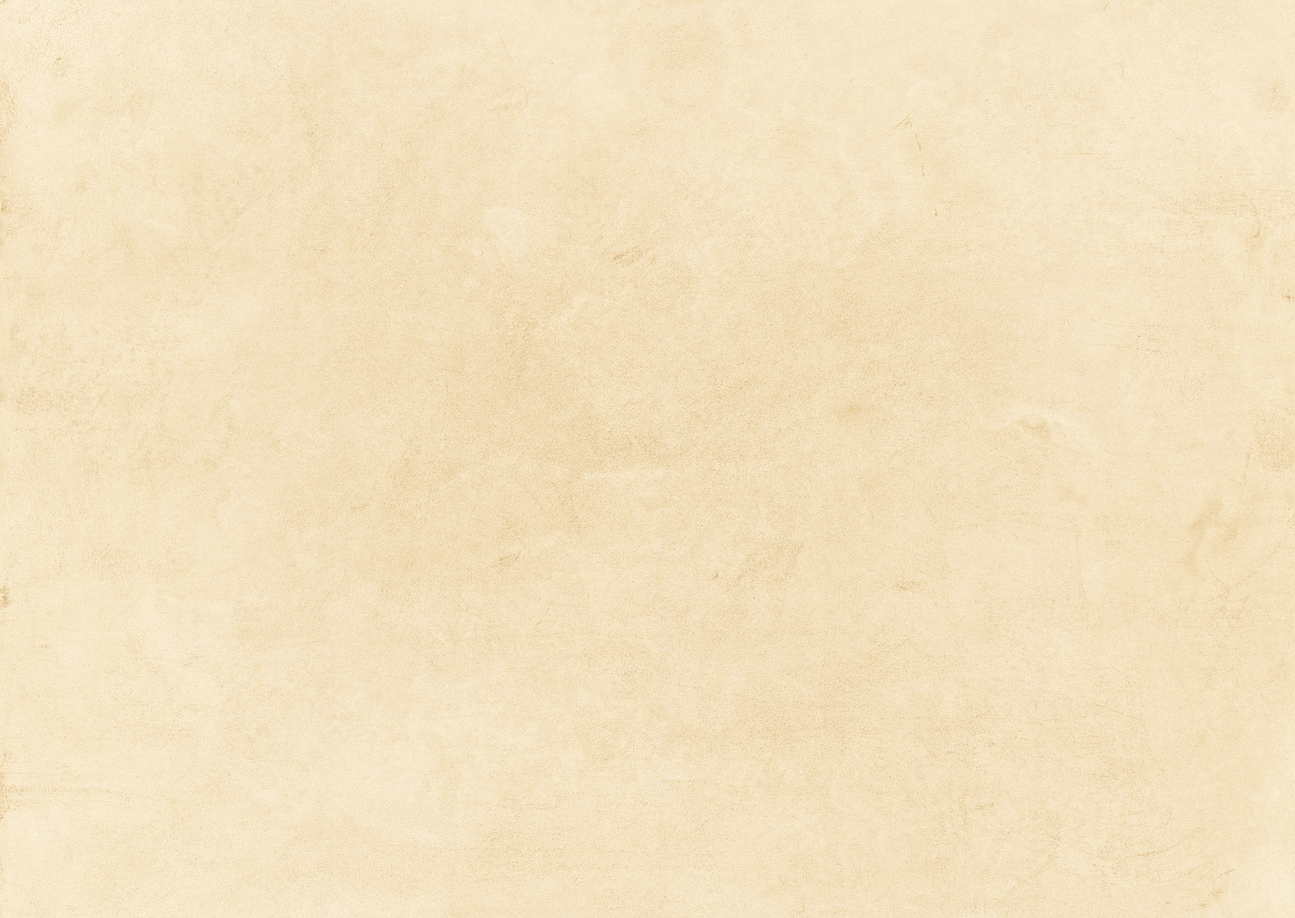
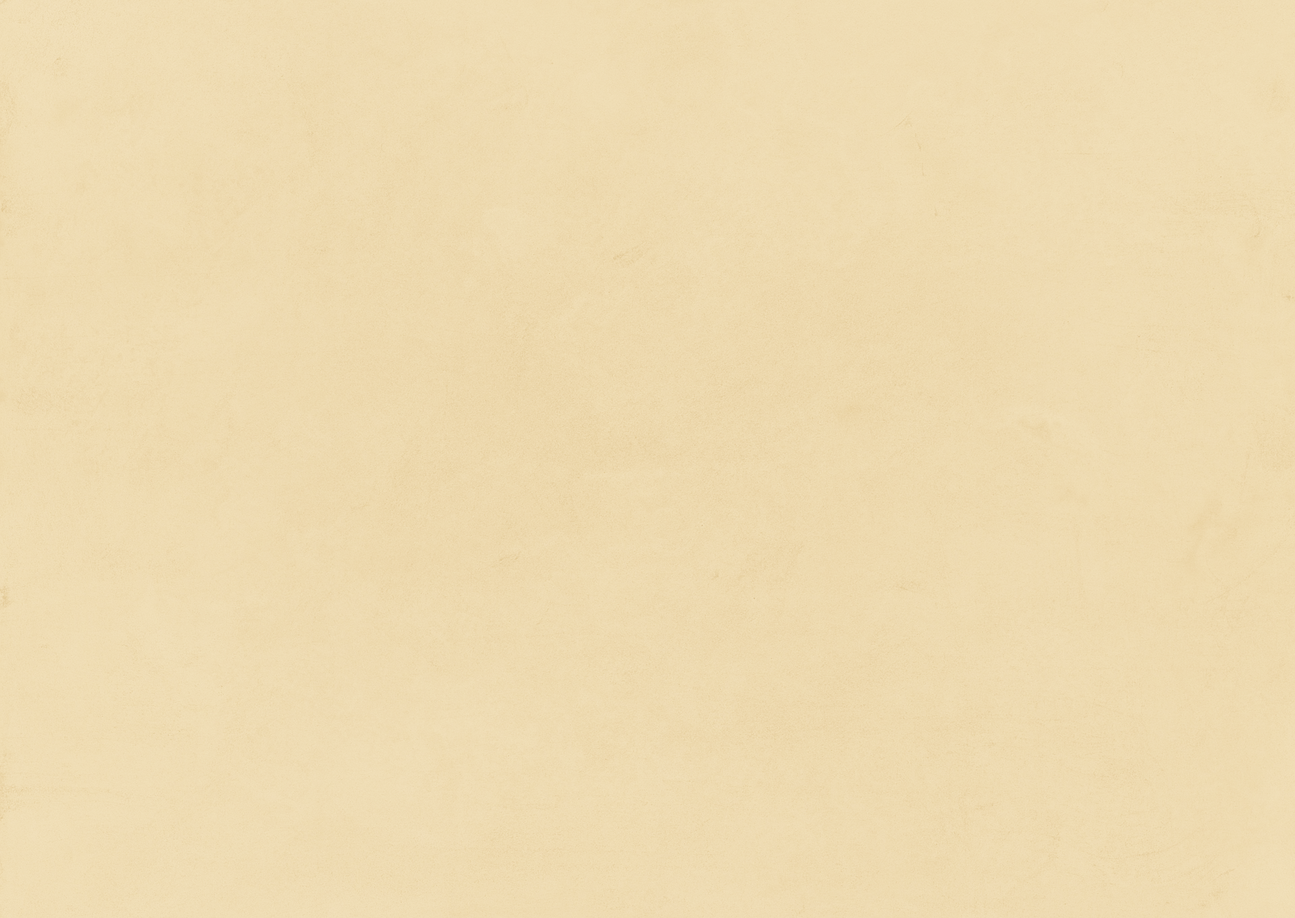
added text effects and backgrounds to race select

diff --git a/client/src/components/lists/RaceList.js b/client/src/components/lists/RaceList.js
@@ -1,21 +1,11 @@
 import React from 'react'
 import styled from 'styled-components'
 
-import bg from './assets/races/raceSel.png'
-
-import dwarf from './assets/races/dwarf.png'
-import elf from './assets/races/elf.png'
-import halfling from './assets/races/halfling.png'
-import human from './assets/races/human.png'
-import dragonborn from './assets/races/dragonborn.png'
-import gnome from './assets/races/gnome.png'
-import halfelf from './assets/races/halfelf.png'
-import halforc from './assets/races/halforc.png'
-import tiefling from './assets/races/tiefling.png'
-
 import MoreInfo from '../characterCreation/MoreInfo'
 
 import Race from './Race'
+
+import bg from './assets/misc/testBG.png'
 
 const Wrapper = styled.div`
   width: 100%;
@@ -24,6 +14,10 @@ const Wrapper = styled.div`
   grid-template-columns: 300px 1fr;
   color: #221e1f;
   z-index: 1000;
+  background-color: #d9e1be;
+  background-image: url('${bg}');
+  background-attachment: local;
+  background-position: 20% 40%;
   .left {
     width: 300px;
     height: 300px;
@@ -34,27 +28,14 @@ const Wrapper = styled.div`
   .right {
     width: 100%;
     height: 100%;
-    background-color: yellow;
     overflow: auto;
   }
 `
 
-// const races = [dwarf, elf, halfling, human, dragonborn, gnome, halfelf, halforc, tiefling]
+// const races = [dwarf, elf, halfling, human, dragonborn, gnome, half-elf, half-orc, tiefling]
 
 const RaceList = ({ data, handleSelected }) => {
-  const raceElements = data.map((race, i) => (
-    // <img
-    //   onClick={() => {
-    //     handleSelected('race', race.name)
-    //     handleSelected('subRace', '')
-    //   }}
-    //   style={style[i + 1]}
-    //   src={races[i]}
-    //   className={races[race.name]}
-    //   alt=""
-    // />
-    <Race data={race} key={i} index={i} handleSelected={handleSelected} />
-  ))
+  const raceElements = data.map((race, i) => <Race data={race} key={i} index={i} handleSelected={handleSelected} />)
   return (
     <Wrapper>
       <div className="left">{raceElements}</div>

diff --git a/client/src/components/characterCreation/MoreInfo.js b/client/src/components/characterCreation/MoreInfo.js
@@ -8,9 +8,16 @@ import SubRaces from '../api/SubRace.json'
 
 import SubRaceChoice from '../lists/SubRaceChoice'
 
+import bg from '../lists/assets/misc/testBG.png'
+
+import { darken } from 'polished'
+
 const Wrapper = styled.div`
   width: 100%;
   background-color: #d9e1be;
+  background-image: url('${bg}');
+  background-attachment: local;
+  background-position: 20% 40%;
   color: #221e1f;
   transition: all 0.3s ease;
   height: ${props => (props.visible ? '100%' : 0)};
@@ -19,6 +26,15 @@ const Wrapper = styled.div`
   z-index: 9999;
   position: relative;
   padding: ${props => (props.visible ? '2em' : 0)};
+  font-size: 1.4em;
+  font-weight: 400;
+  color: ${darken(0.5967, '#ECD7AC')};
+  text-shadow: 1px 1px 0px rgba(255,255,255, .07);
+  h1,h2 {
+    font-weight: 700;
+    color: #570002;
+    opacity: .8;
+  }
 `
 const raceArray = ['Dwarf', 'Elf', 'Halfling', 'Human', 'Dragonborn', 'Gnome', 'Half-Elf', 'Half-Orc', 'Tiefling']
 

diff --git a/client/src/components/characterCreation/CustomStepper.js b/client/src/components/characterCreation/CustomStepper.js
@@ -16,7 +16,7 @@ import AssignStats from '../statCalculations/AssignStats'
 
 import { withCharacter } from '../../contexts/CharacterContext'
 
-import MoreInfo from './MoreInfo'
+import bg from './darkTestBg.png'
 
 const cors = 'https://vschool-cors.herokuapp.com/?url='
 
@@ -28,6 +28,7 @@ const Wrapper = styled.div`
   position: relative;
   margin: auto;
   background-color: #221e1f;
+  background-image: url('${bg}');
   &::after {
     content: '';
     position: absolute;
@@ -42,7 +43,7 @@ const Wrapper = styled.div`
     z-index: 2;
   }
 `
-
+//header of active section should be 2em . 2.2em
 const Step = styled.div`
   padding: 0 20px 24px 50px;
   position: relative;

diff --git a/client/src/components/characterCreation/Display.js b/client/src/components/characterCreation/Display.js
@@ -10,11 +10,14 @@ import fighter from '../lists/assets/classes/fighter.png'
 import monk from '../lists/assets/classes/monk.png'
 import paladin from '../lists/assets/classes/paladin.png'
 
+import bg from '../lists/assets/misc/testBG.png'
+
 const Wrapper = styled.aside`
   width: 40%;
   height: 100%;
   padding: 1em 0;
   background: #b69869;
+  background-image: url(${bg});
   display: grid;
   grid-template-columns: repeat(2, 1fr);
   grid-template-rows: repeat(3, 1fr);
